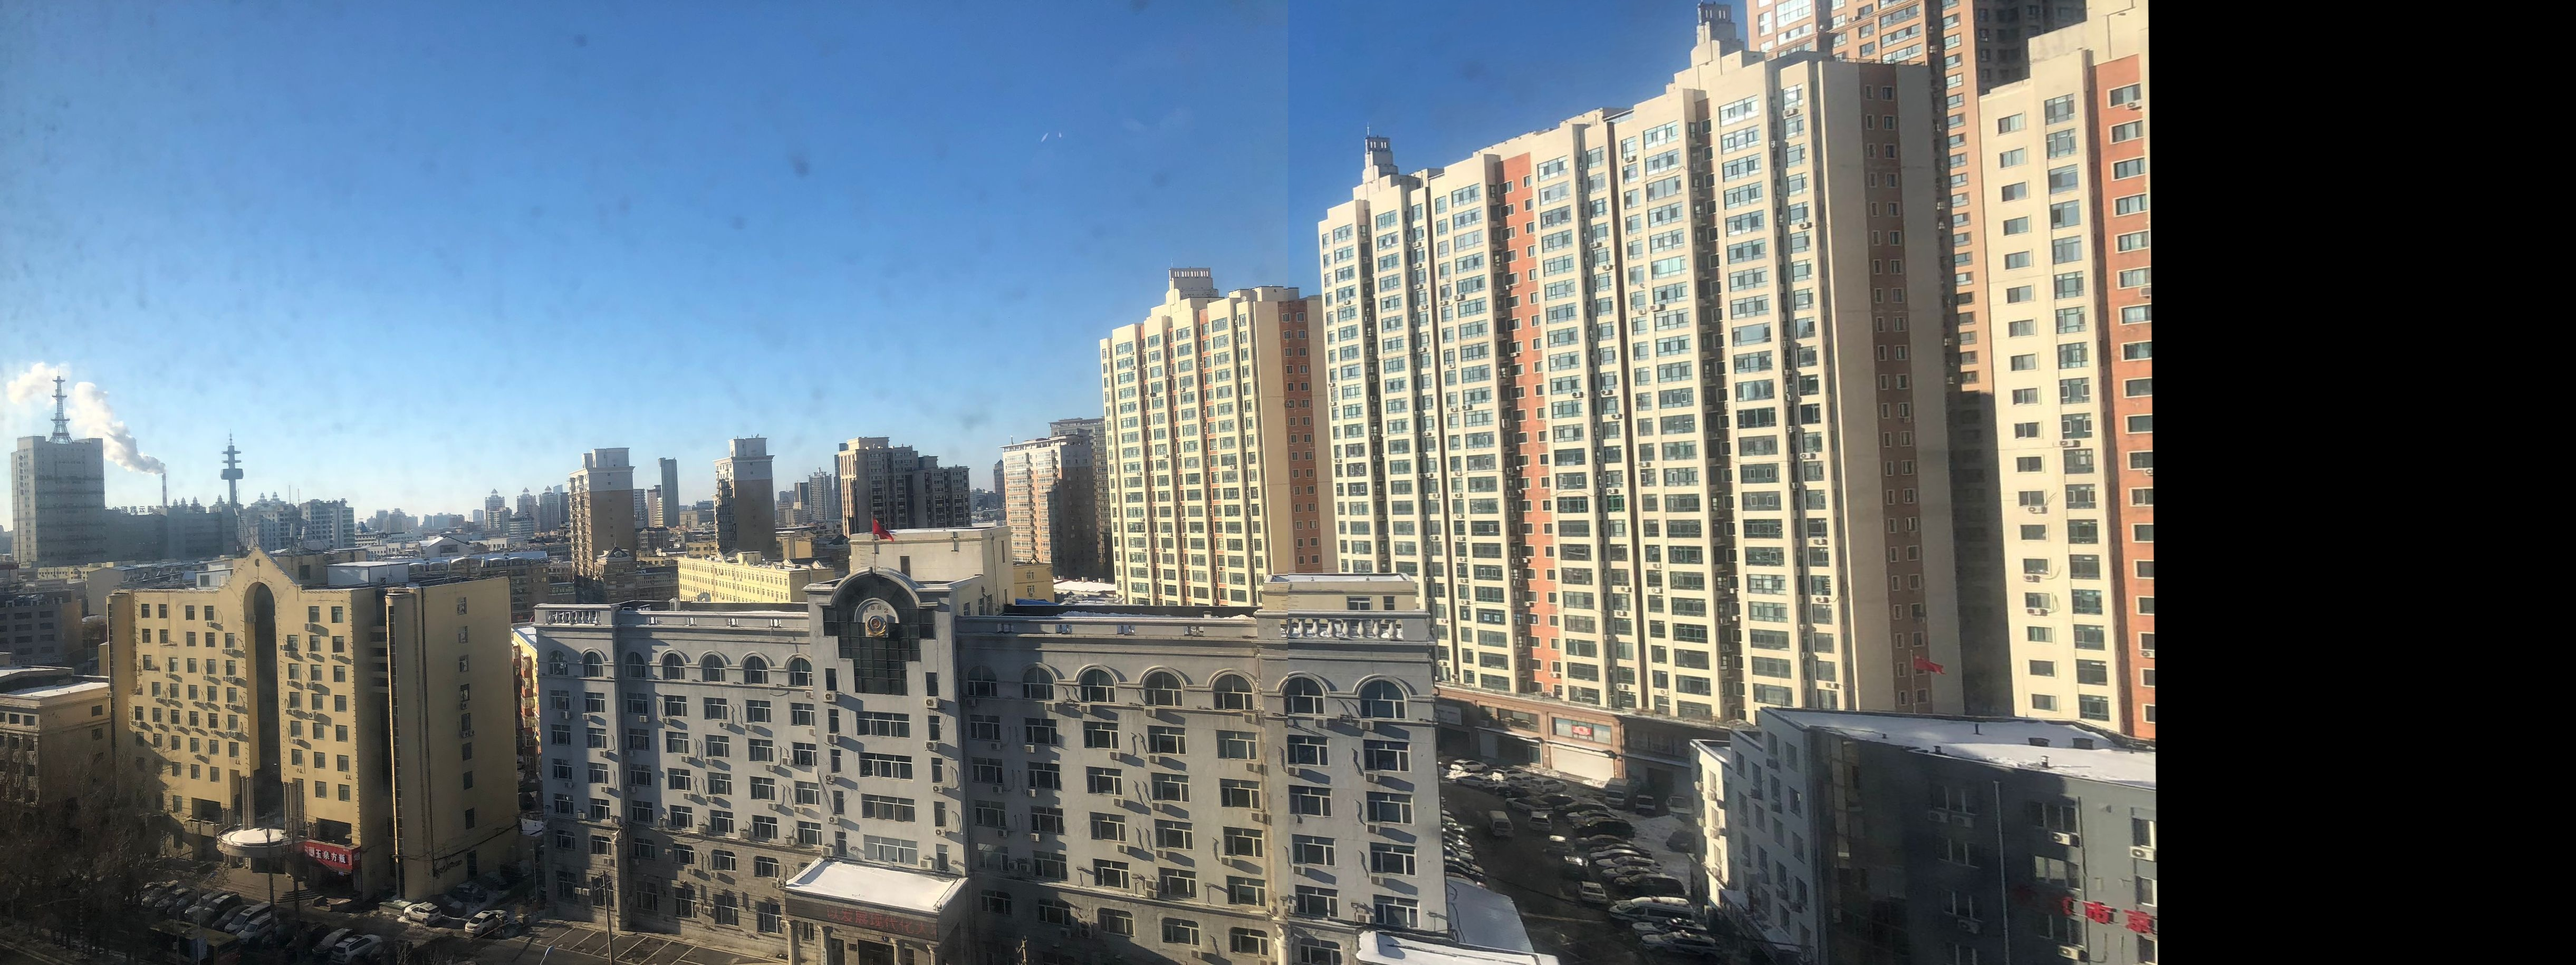
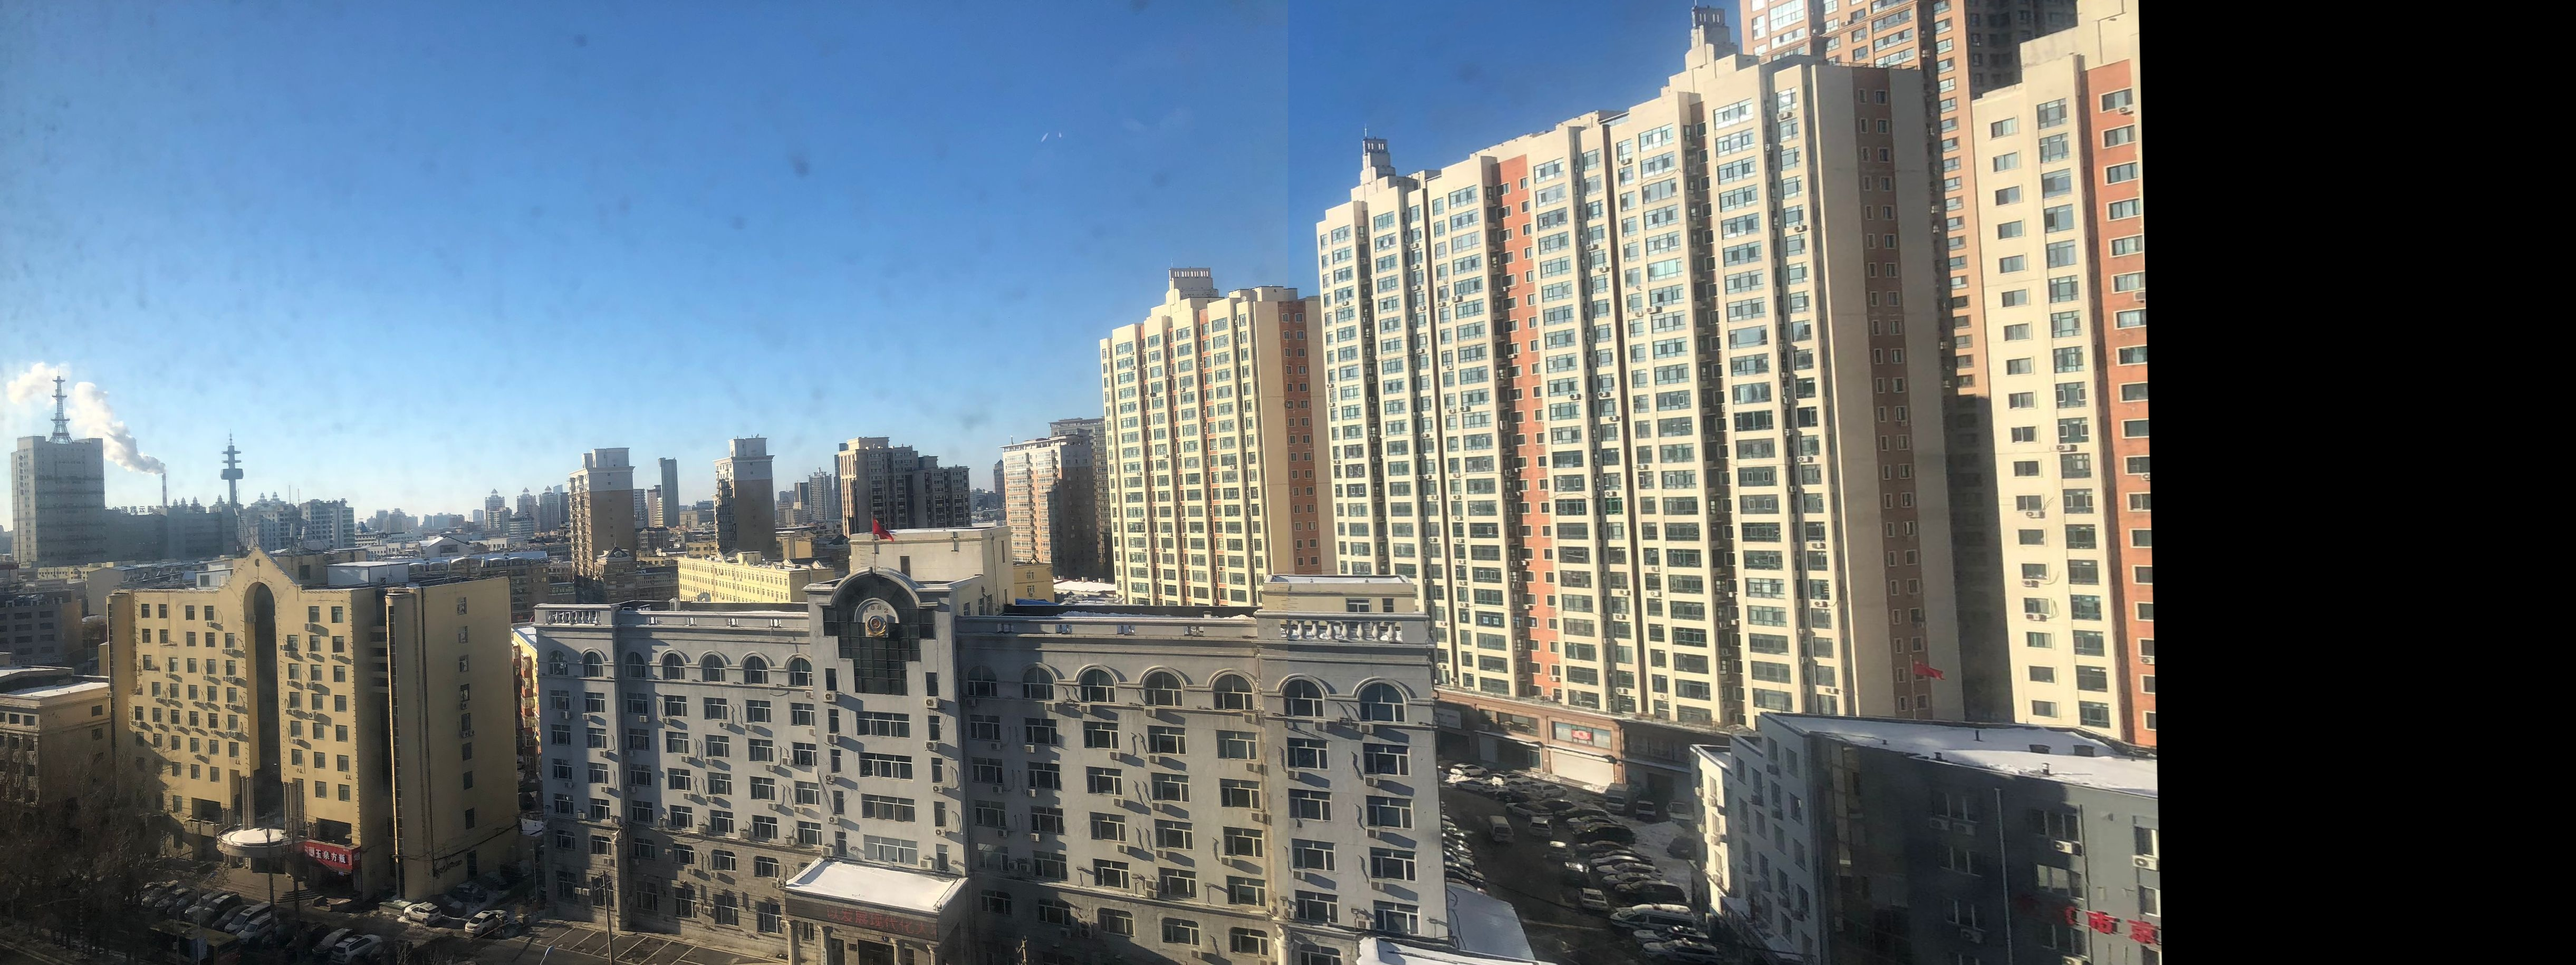
Add lab1 and lab2 (teacher's implementation), exclude demo video

Changed region(s): [[0.498, 0.0, 0.8403, 1.0]]

diff --git a/teacher/lab2/图像匹配拼接/sift_opencv/stitch.py b/teacher/lab2/图像匹配拼接/sift_opencv/stitch.py
@@ -1,0 +1,203 @@
+import sys
+import cv2
+import numpy as np
+
+def compute_homography(src_pts, dst_pts):
+    
+    """ 请在此处开始编写你的代码：
+    
+    计算单应矩阵 H。
+    
+    :param src_pts: 源点坐标
+    :param dst_pts: 目标点坐标
+    :return: 单应矩阵 H
+
+   将源点坐标(src_pts)变换到目标点坐标(dst_pts)：
+
+    1. 根据输入的源点坐标和目标点坐标,构建一个线性方程组。每对对应的源点和目标点可以提供两个方程。
+
+       其中(x, y)是源点坐标,(u, v)是目标点坐标,h11到h33是单应矩阵H的9个元素。
+
+    2. 将所有点对产生的方程系数存储在矩阵A中。A的每一行对应一个方程的系数。
+
+    3. 使用奇异值分解(SVD)求解方程组Ah=0的解,其中h是单应矩阵H的9个元素组成的列向量。SVD分解得到的矩阵V的最后一列对应最小奇异值,即为方程组的解。
+
+    4. 将解向量重塑为3x3矩阵,并将其除以H[3,3]进行归一化处理,得到最终的单应矩阵H。
+
+    总的来说,通过构建线性方程组并使用SVD求解,得到了将源点变换到目标点的单应矩阵H。单应矩阵H可用于对图像进行变换,实现图像配准、拼接等操作。
+    
+    """
+    num_points = src_pts.shape[0]
+    A = np.zeros((2 * num_points, 9)) # 初始化线性方程组矩阵
+    
+    for i in range(num_points):
+        x, y = src_pts[i]
+        u, v = dst_pts[i]
+        A[2 * i] = [-x, -y, -1, 0, 0, 0, u * x, u * y, u] # 对应于 x 的变换方程
+        A[2 * i + 1] = [0, 0, 0, -x, -y, -1, v * x, v * y, v] # 对应于 y 的变换方程
+        
+    _, _, Vt = np.linalg.svd(A)
+    H = Vt[-1].reshape(3, 3) # 取最小奇异值对应的奇异向量，重塑为3x3矩阵
+    H = H / H[2, 2]
+    
+    return H
+
+def ransac_homography(src_pts, dst_pts, threshold=5.0, max_iter=2000, confidence=0.99):
+    
+    """ 请在此处开始编写你的代码：
+    
+    使用RANSAC估计单应矩阵。
+    
+    :param src_pts: 源点坐标
+    :param dst_pts: 目标点坐标
+    :param threshold: 内点距离阈值
+    :param max_iter: 最大迭代次数
+    :param confidence: 置信度
+    :return: 最佳单应矩阵 H 和内点掩码
+
+    这个代码模块使用RANSAC算法估计单应矩阵,其思路如下:
+
+    1. RANSAC算法通过反复随机抽样和估计模型参数,从包含异常值的数据中求解最优模型。
+
+    2. 在每次迭代中,随机选择4对源点和目标点,用这4对点计算出一个单应矩阵H。
+
+    3. 使用计算出的单应矩阵H将所有源点变换到目标点的坐标系,并计算变换后的源点与实际目标点之间的距离(残差)。
+
+    4. 根据残差和给定的阈值,判断每个点是否为内点(即符合当前估计的单应矩阵的点)。同时更新最佳单应矩阵和对应的内点数量。
+
+    5. 重复步骤2-4,直到达到最大迭代次数或者内点数量占总点数的比例超过给定的置信度。最终返回最佳单应矩阵和内点掩码。
+
+    通过RANSAC算法,可以在存在噪声和异常值的情况下,鲁棒地估计出最优的单应矩阵,用于图像配准和拼接任务。
+    
+    """
+    num_pts = src_pts.shape[0]
+    best_inliers = None
+    best_H = None
+    iteration = 0
+    best_inlier_count = 0
+    
+    while iteration < max_iter:
+        indices = np.random.choice(num_pts, 4, replace=False)
+        src_sample = src_pts[indices]
+        dst_sample = dst_pts[indices]
+        
+        H_candidate = compute_homography(src_sample, dst_sample)
+        
+        src_homog = np.column_stack((src_pts, np.ones(num_pts))) #  将 src_pts 的 x,y 坐标和一个全1的列向量堆叠起来
+        dst_homog_pred = np.dot(H_candidate, src_homog.T).T
+        dst_homog_pred /= dst_homog_pred[:, 2][:, np.newaxis]  # 将变换后的齐次坐标 𝑥′,𝑦′,𝑤′ 归一化，使得每个点的第三个坐标为1
+        
+        # 计算变换后的点与实际目标点之间的欧几里得距离
+        errors = np.sqrt((dst_homog_pred[:, 0] - dst_pts[:, 0]) ** 2 + (dst_homog_pred[:, 1] - dst_pts[:, 1]) ** 2)
+        inliers = errors < threshold
+        inlier_count = np.sum(inliers)
+        
+        if inlier_count > best_inlier_count:
+            best_inliers = inliers
+            best_H = H_candidate
+            best_inlier_count = inlier_count
+            
+            # Update the number of iterations needed for a given confidence level
+            inlier_ratio = best_inlier_count / num_pts  # 内点比例
+            n_estimated = np.log(1 - confidence) / np.log(1 - inlier_ratio ** 4)
+            max_iter = min(max_iter, int(n_estimated))
+        
+        iteration += 1
+
+    if best_H is not None:
+        return best_H, best_inliers.astype(int)
+    else:
+        return None, None
+
+def Panorama_stitching(image_right, image_left, downscale_factor=2):
+    """
+    全景拼接函数。
+    
+    :param image_right: 右侧图像
+    :param image_left: 左侧图像
+    :param downscale_factor: 下采样因子
+    :return: 拼接后的全景图像
+    
+    """
+    # 对图像进行下采样，以期减少计算量
+    image_right_downscaled = cv2.resize(image_right, None, fx=1/downscale_factor, fy=1/downscale_factor)
+    image_left_downscaled = cv2.resize(image_left, None, fx=1/downscale_factor, fy=1/downscale_factor)
+
+    # 转换为灰度图像
+    gray_right = cv2.cvtColor(image_right_downscaled, cv2.COLOR_BGR2GRAY)
+    gray_left = cv2.cvtColor(image_left_downscaled, cv2.COLOR_BGR2GRAY)
+
+    # 使用SIFT特征检测器
+    sift = cv2.SIFT_create()
+    keypoints_right, descriptors_right = sift.detectAndCompute(gray_right, None)  #接受一个灰度图像和一个掩码
+    keypoints_left, descriptors_left = sift.detectAndCompute(gray_left, None)
+    # 每个关键点都是一个带有许多属性的对象（如位置、尺度、方向等）
+    # 一个数组，每行对应一个关键点的描述符
+
+    # 使用暴力匹配器进行特征匹配
+    bf = cv2.BFMatcher()
+    matches = bf.knnMatch(descriptors_right, descriptors_left, k=2)
+
+    # 通过Lowe's ratio test筛选出好的匹配点
+    good_matches = []
+    for m, n in matches:
+        if m.distance < 0.7 * n.distance:
+            good_matches.append(m)
+
+    if len(good_matches) > 10:
+        src_pts = np.float32([keypoints_right[m.queryIdx].pt for m in good_matches]) * downscale_factor
+        dst_pts = np.float32([keypoints_left[m.trainIdx].pt for m in good_matches]) * downscale_factor
+
+        # 使用RANSAC计算单应矩阵
+        H, mask = ransac_homography(src_pts, dst_pts)
+        matches_mask = np.array(mask, dtype=int).tolist()  # 转换为Int类型列表
+
+        # 图像变形——透视变换
+        h_right, w_right = image_right.shape[:2]
+        h_left, w_left = image_left.shape[:2]
+        panorama = cv2.warpPerspective(image_right, H, (w_right + w_left, max(h_right, h_left)))
+        panorama[0:h_left, 0:w_left] = image_left
+
+        # 显示单应矩阵
+        print("Homography matrix:")
+        print(H)
+
+        # 显示匹配点比例
+        print(f"Matches ratio: {len(good_matches) / len(matches):.2f}")
+
+        # 显示匹配点
+        draw_params = dict(matchColor=(0, 255, 0),  # 在匹配的关键点间画绿线
+                           singlePointColor=None,
+                           matchesMask=matches_mask,  # 只画内点
+                           flags=2)
+        img_matches = cv2.drawMatches(image_right_downscaled, keypoints_right, image_left_downscaled, keypoints_left, good_matches, None, **draw_params)
+
+        # cv2.imshow("Matches", img_matches)
+        cv2.imwrite('matches.jpg', img_matches)
+
+        return panorama
+
+    else:
+        print("Not enough matches are found - {}/{}".format(len(good_matches), 10))
+        return None
+
+# 主程序
+if (__name__ == "__main__"):
+    # 读取左右图像
+    image_right = cv2.imread('right.jpg')
+    image_left = cv2.imread('left.jpg')
+
+    # 调用全景拼接函数，得到全景图像
+    panorama = Panorama_stitching(image_right, image_left)
+
+    # 判断全景图像是否为空，如果不为空则显示并保存全景图像
+    if panorama is not None:
+        # 显示全景图像
+        # cv2.imshow('Panorama', panorama)
+        cv2.imwrite('panorama.jpg', panorama)  # 保存全景图像
+        # cv2.waitKey(0)
+    else:
+        print("Panorama stitching failed.")
+
+    # cv2.destroyAllWindows()
+    sys.exit(0)
